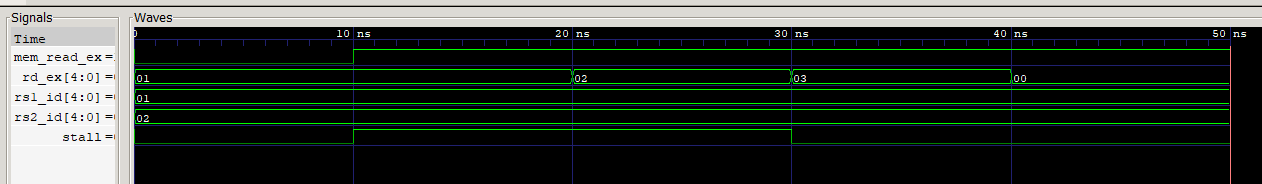
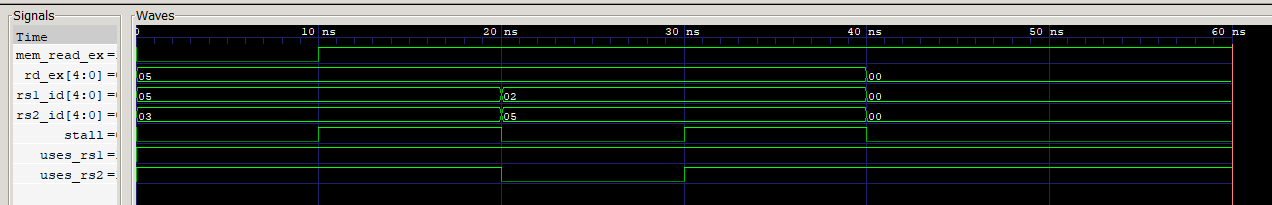
Finalize RISC-V 5-stage pipeline project

diff --git a/docs/notes/day15.md b/docs/notes/day15.md
@@ -6,19 +6,19 @@ Add BEQ support, resolve control hazards caused by taken branches, and improve t
 
 ## Implemented
 
-- Added BEQ decode support
-- Added branch control signal
-- Added B-type immediate generation
-- Propagated branch control through ID/EX
-- Propagated branch PC into EX
-- Added branch target calculation
-- Added branch comparison
-- Added branch-taken detection
-- Added PC redirect support
-- Added IF/ID flush on taken branch
-- Added ID/EX flush on taken branch
-- Verified taken and not-taken branch behavior
-- Added store-data forwarding for SW
+- Added BEQ decode support.
+- Added branch control signal.
+- Added B-type immediate generation.
+- Propagated branch control through ID/EX.
+- Propagated branch PC into EX.
+- Added branch target calculation.
+- Added branch comparison.
+- Added branch-taken detection.
+- Added PC redirect support.
+- Added IF/ID flush on taken branch.
+- Added ID/EX flush on taken branch.
+- Verified taken and not-taken branch behavior.
+- Added store-data forwarding for SW.
 
 ## BEQ Decode
 
@@ -27,3 +27,4 @@ BEQ uses:
 ```text
 opcode = 1100011
 funct3 = 000
+```

diff --git a/docs/notes/day14.md b/docs/notes/day14.md
@@ -6,18 +6,18 @@ Integrate data memory into the 5-stage pipeline, complete basic LW/SW execution,
 
 ## Implemented
 
-- Added a 256 x 32-bit data memory
-- Added synchronous memory write
-- Added combinational memory read
-- Added LW decode control
-- Added SW decode control
-- Extended the immediate generator for LW
-- Integrated data memory into the MEM stage
-- Connected memory read data into MEM/WB
-- Added a hazard detection unit
-- Added PC stall support
-- Added IF/ID stall support
-- Added ID/EX bubble insertion for load-use hazards
+- Added a 256 x 32-bit data memory.
+- Added synchronous memory write.
+- Added combinational memory read.
+- Added LW decode control.
+- Added SW decode control.
+- Extended the immediate generator for LW.
+- Integrated data memory into the MEM stage.
+- Connected memory read data into MEM/WB.
+- Added a hazard detection unit.
+- Added PC stall support.
+- Added IF/ID stall support.
+- Added ID/EX bubble insertion for load-use hazards.
 
 ## Data Memory
 
@@ -25,3 +25,4 @@ The data memory is implemented as:
 
 ```verilog
 reg [31:0] memory [0:255];
+```

diff --git a/docs/notes/day12.md b/docs/notes/day12.md
@@ -1,18 +1,28 @@
-## Day 12 – Basic 5-Stage Pipeline Integration
+# Day 12 - Basic 5-Stage Pipeline Integration
 
-### What I implemented
+## What I Implemented
+
 - Integrated the main 5-stage datapath:
-  IF → ID → EX → MEM → WB
-- Connected the existing pipeline registers:
-  IF/ID, ID/EX, EX/MEM, MEM/WB
-- Extended control-signal propagation across pipeline stages
-- Added the write-back MUX using `mem_to_reg`
-- Used a temporary memory-data placeholder because data memory has not been implemented yet
 
-### Verification
+```text
+IF → ID → EX → MEM → WB
+```
+
+- Connected the existing pipeline registers:
+  - IF/ID
+  - ID/EX
+  - EX/MEM
+  - MEM/WB
+- Extended control-signal propagation across pipeline stages.
+- Added the write-back MUX using `mem_to_reg`.
+- Used a temporary memory-data placeholder because data memory had not been implemented yet.
+
+## Verification
+
 Tested three independent instructions to avoid data hazards:
 
 ```assembly
 addi x2, x1, 8
 add  x3, x4, x5
 sub  x6, x7, x8
+```

diff --git a/docs/notes/day16.md b/docs/notes/day16.md
@@ -6,14 +6,14 @@ Replace manual testbench-driven instruction input with instruction-memory-based 
 
 ## Implemented
 
-- Added a 256 x 32-bit instruction memory
-- Added combinational instruction read
-- Connected PC directly to instruction memory
-- Removed the external instruction input from `pipeline_top`
-- Added PC-based sequential instruction fetching
-- Verified multi-instruction program execution
-- Verified branch target refetch from instruction memory
-- Added end-to-end branch execution test
+- Added a 256 x 32-bit instruction memory.
+- Added combinational instruction read.
+- Connected PC directly to instruction memory.
+- Removed the external instruction input from `pipeline_top`.
+- Added PC-based sequential instruction fetching.
+- Verified multi-instruction program execution.
+- Verified branch target refetch from instruction memory.
+- Added end-to-end branch execution test.
 
 ## Instruction Memory
 
@@ -21,3 +21,4 @@ The instruction memory is implemented as:
 
 ```verilog
 reg [31:0] memory [0:255];
+```
